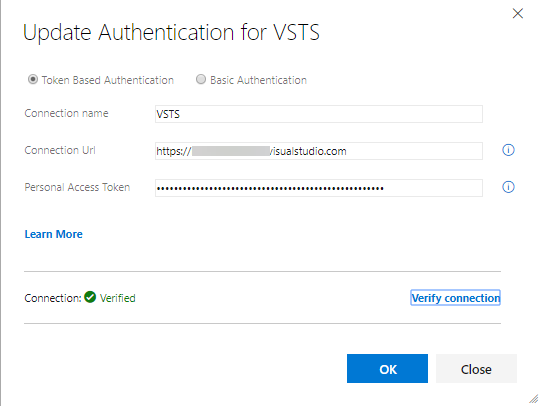
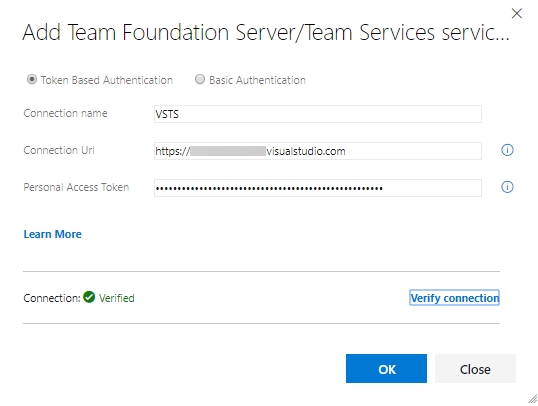
updated endpoint creation

diff --git a/deploymentgroups/readme.md b/deploymentgroups/readme.md
@@ -70,27 +70,7 @@ The following resources will be provisioned on the Azure using an ARM template:
 
    ![VSTS Demo Generator](images/vsts_demo.png)
 
-## Exercise 1: Endpoint Creation
-
-Since the connections are not established during the project provisioning, the endpoints need to be configured manually.
-
-1. In the VSTS project portal, click the **Project settings**, select **Service Connections** under the *Build and release* section and click on the 
-**+ New Service Endpoint** button. Choose the endpoint type as **Team Foundation Server/Team Services**. Select the **Basic authentication** option and specify the following details:
-
-   * **Connection Name**: Provide any name
-
-   * **Connection Url**: The VSTS account Url
-
-   * **Personal Access Token**: The token to use to authenticate with the service.
-
-   > The configured endpoint will be used during the agent registration with deployment groups to provide the access to the VSTS team project.
-
-   ![Connection details](images/connection_name.png)
-
-   ![Connection details](images/service_endpoint_vsts.png)
-
-
-## Exercise 2: Creating Deployment Groups
+## Exercise 1: Creating Deployment Groups
 
 The VSTS makes it easier to organize the servers for deploying the applications. A deployment group is a collection of machines with a VSTS deployment agent on each of them. Each machine interacts with the VSTS to coordinate deployment of the app.
 
@@ -104,7 +84,7 @@ The VSTS makes it easier to organize the servers for deploying the applications.
 
    ![Registration script](images/script_dg.png)
 
-## Exercise 3: Configure Releases
+## Exercise 2: Configure Releases
 
 The target servers are available in the deployment group for deploying the application. The release definition uses **Phases** to deploy the application to the target servers.
 
@@ -124,14 +104,36 @@ A [Phase](https://docs.microsoft.com/en-us/vsts/build-release/concepts/process/p
 
      * **Azure Resource Group Deployment**: This task will automate the configuration of the deployment group agents to the web and db servers. 
 
-        * To configure new a service connection, select the Azure subscription from the list and click **Authorize**. 
+        ***Linking Azure Subscription***
+            
+        * If the subscription is already listed, select the Azure subscription from the list and click `Authorize`.
 
-        * If your subscription is not listed or if you want to use an existing service principal, you can setup an Azure service connection using the **Add** or **Manage** button. 
+             ![Authorize](images/authorize.png)
 
-       ![Agent Phase](images/agent_phase.png)
-       
+        * If your subscription is not listed or if you want to use an existing service principal, click the `Manage` link.
 
-       ![Agent Phase](images/agent_phase1.png)
+            Click on the `+New Service Connection` button and select the **Azure Resource Manager** option. Provide Connection name, select the Azure Subscription from the list and the click on the Ok button. The Azure credentials will be required to be provided to authorize the connection.
+
+            ![Endpoint creation](images/endpoint_creation.png)
+
+       ***Linking VSTS/TFS Service Connection***
+
+       Since the connections are not established during the project provisioning, the endpoints need to be configured manually.
+
+        1. Click **New** button next to the **VSTS/TFS Service Connection** field. With the **Token Based Authentication** option selection, specify the following details:
+
+            * **Connection Name**: Provide any name
+
+            * **Connection Url**: The VSTS account Url
+
+            * **Personal Access Token**: The token to use to authenticate with the service.
+
+            ![Connection details](images/service_endpoint_vsts.png)
+
+        1. Choose the **VSTS Project** from the drop down and the created **Deployment Group**.
+
+            ![Agent Phase](images/agent_phase.png)
+            
 
    * **Database deploy phase**: This deployment group phase executes tasks on the machines defined in the deployment group. This phase is linked to the **db** tag.
 
